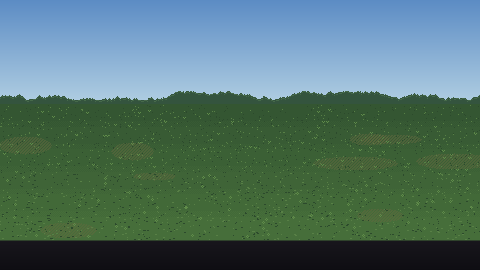
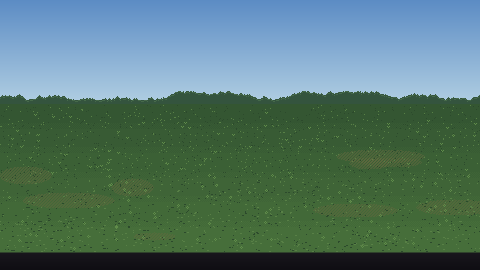
Raid runs along a flank track beyond the top or bottom lane
- field.flank_track = 12: a track above the top lane (y 106-118) and below
  the bottom lane (232-244); only raiders on their run may use it
- The raid takes one track: the side with fewer enemies in its outer lane
- A special down an outer lane covers its track (only running raiders are
  affected, so other battles play exactly as before); full-field waves too
- Camera tilts 12 px toward the track while a raid runs, and follows the
  player's raiders; the track glows orange with chevrons
- Ground images regenerated with ground down to y 252 (make_ground.py);
  depth of field keeps the tracks sharp
- raid_spd 1.5 -> 1.42 (race with the defender falling back is a cliff:
  1.35 2%, 1.42 48%, 1.45 74%, 1.5 78% slime holding)

Claude-Session: https://claude.ai/code/session_01XNNexumtqRE1R6fgu83FML

diff --git a/gate-fall-game/tools/make_ground.py b/gate-fall-game/tools/make_ground.py
@@ -4,7 +4,7 @@ coloured ground that fills the screen (the camera only shows y 76-256 of it),
 a thin far horizon under the top HUD, light texture so the troops read clearly.
 
 Original art, generated: no source images. 480x270 like every background
-(horizon at y 104, ground to y 240, dark strip below for the bottom HUD).
+(horizon at y 104, ground to y 252 so the bottom flank track sits on ground, dark strip below for the bottom HUD).
 
     python3 tools/make_ground.py                 # every palette
     python3 tools/make_ground.py grass           # one palette
@@ -24,7 +24,7 @@ from PIL import Image
 
 W, H = 480, 270
 HORIZON = 104
-GROUND_END = 240
+GROUND_END = 252
 
 PALETTES = {
     # deep meadow: darker than the slimes, cooler than dirt
